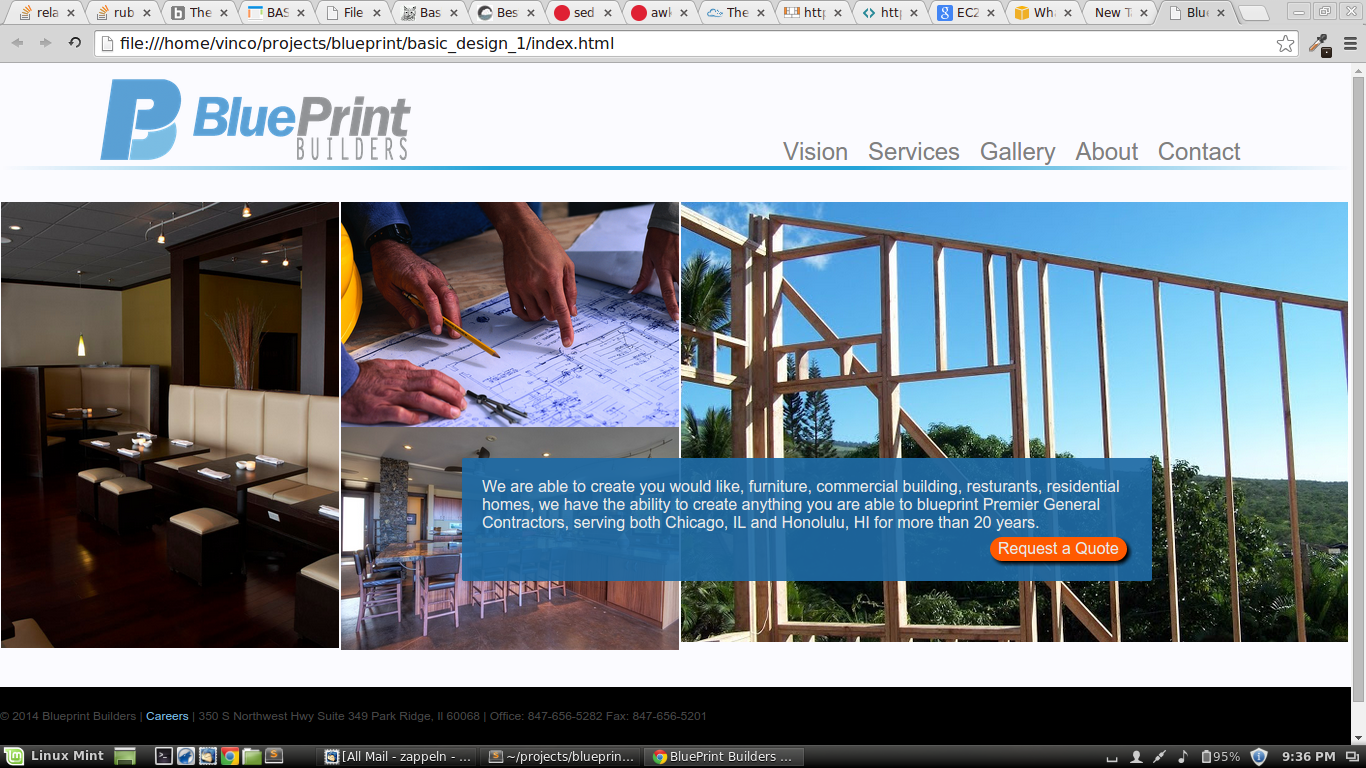
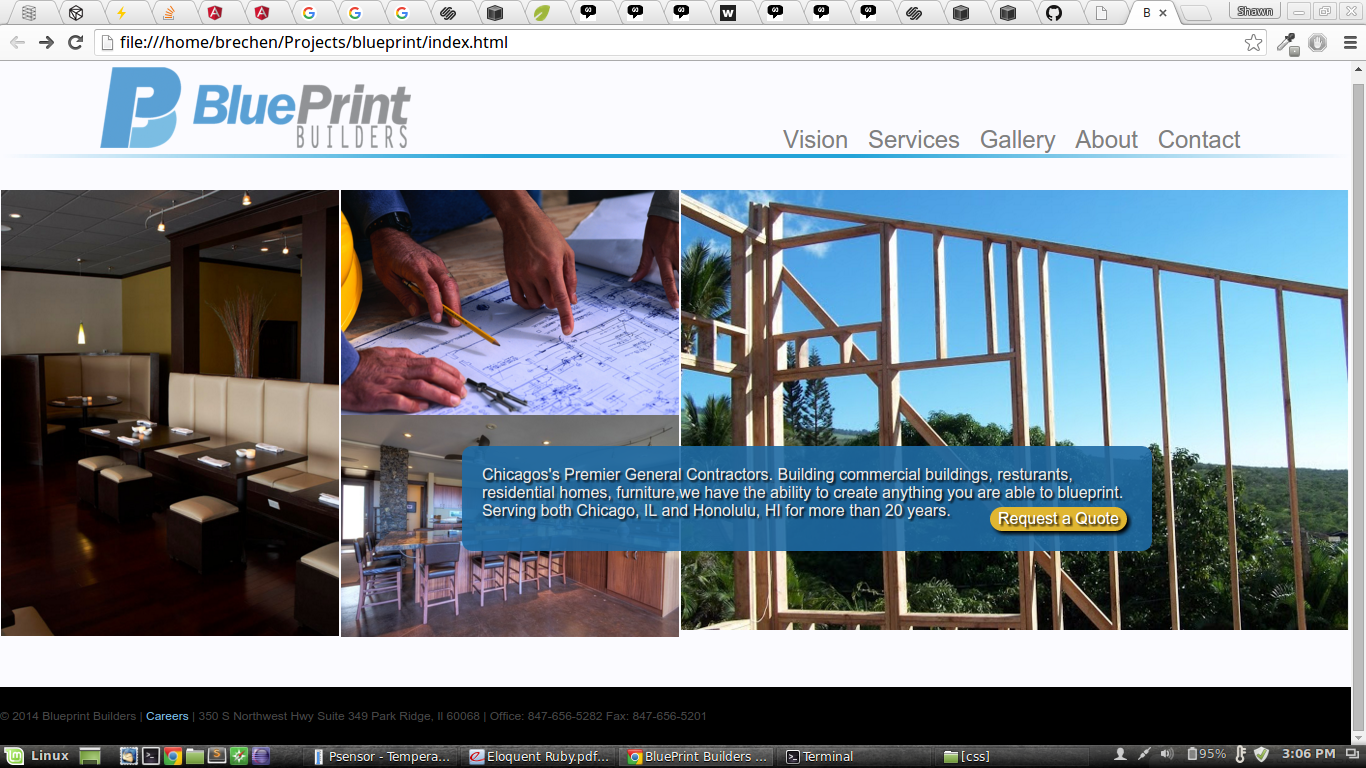
add css text-shadow on welcome page, changed color of request quote link

diff --git a/index.html b/index.html
@@ -53,8 +53,8 @@
 
       <div class="container" >
         <div class="std_content front_content">
-            We are able to create you would like, furniture, commercial building, resturants, residential homes, we have the ability to create anything you are able to blueprint
-            Premier General Contractors, serving both Chicago, IL and Honolulu, HI for more than 20 years. <a href="contact.html" id="quote_button">Request a Quote</a>
+            Chicagos's Premier General Contractors. Building commercial buildings, resturants, residential homes, furniture, we have the ability to create anything you are able to blueprint.
+            Serving both Chicago, IL and Honolulu, HI for more than 20 years. <a href="contact.html" id="quote_button">Request a Quote</a>
         </div>
       </div>
 

diff --git a/css/application.css b/css/application.css
@@ -40,11 +40,11 @@ html {
 }
 
 #quote_button {
-  color: #E8E8E8;
+  color: #FFFFFF;
   margin: 5px 5px 0px 0px;
   float: right;
   padding: 3px 8px 3px 8px;
-  background: rgb(255, 90, 0);
+  background: rgb(224, 182, 49);
   border-radius: 20px;
   box-shadow: 3px 3px 5px #000000;
 }
@@ -137,15 +137,16 @@ html {
 
 .std_content {
   color: #E8E8E8;
-  background: rgba(31, 107, 165, 0.95);
+  background: rgba(31, 107, 165, 0.90);
   margin-left: auto;
   margin-right: auto;
+  text-shadow: 2px 2px 2px black;
 }
 
 .front_content {
   position: absolute;
   z-index: 100;
-  border-radius: 2px;
+  border-radius: 10px;
   width: 650px;
   /*height: 120px;*/
   padding: 20px;
